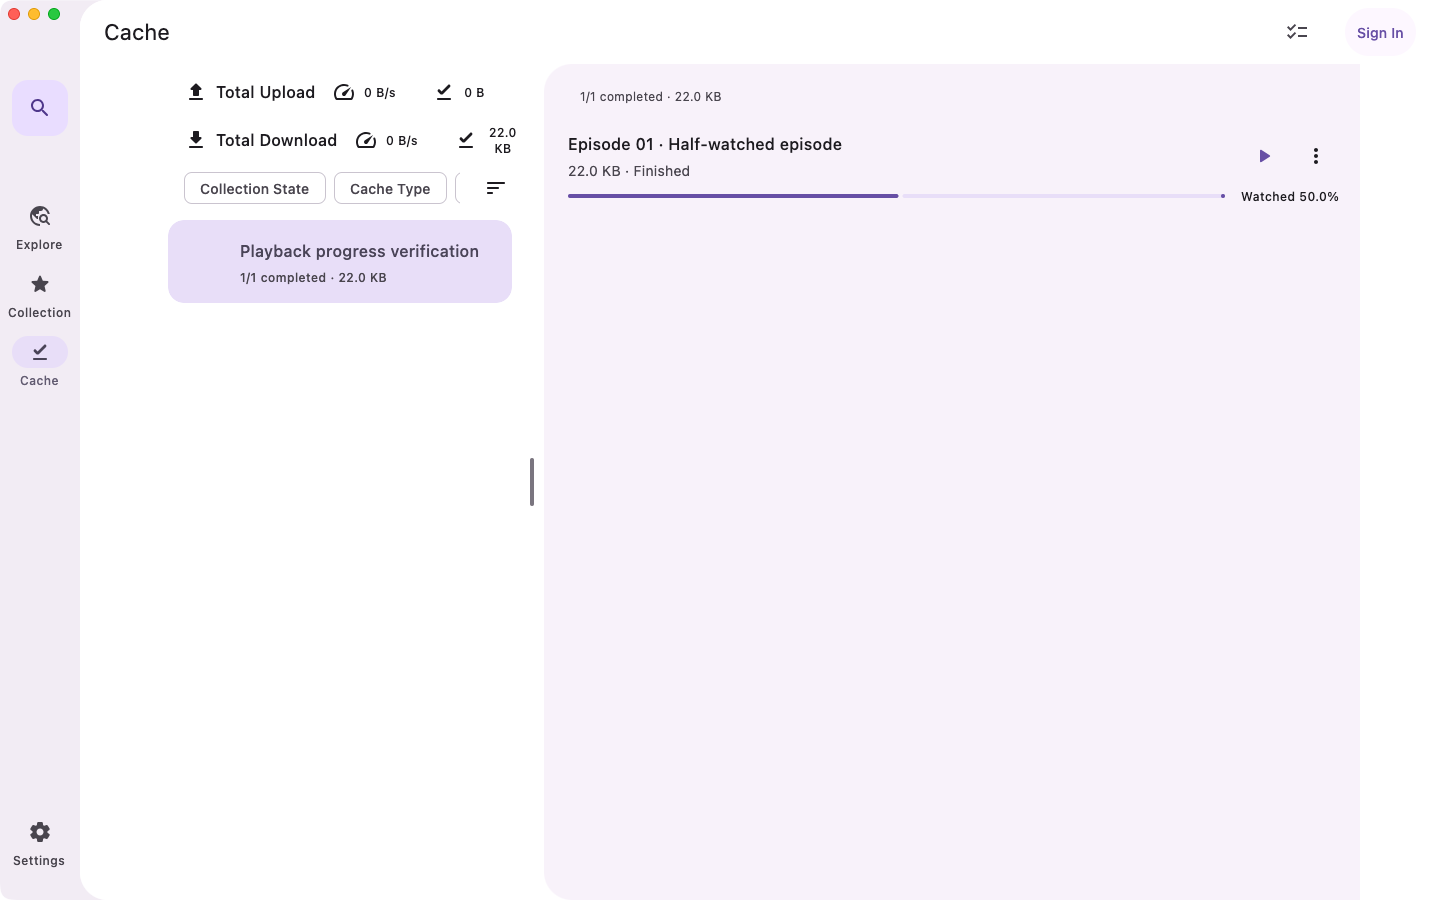
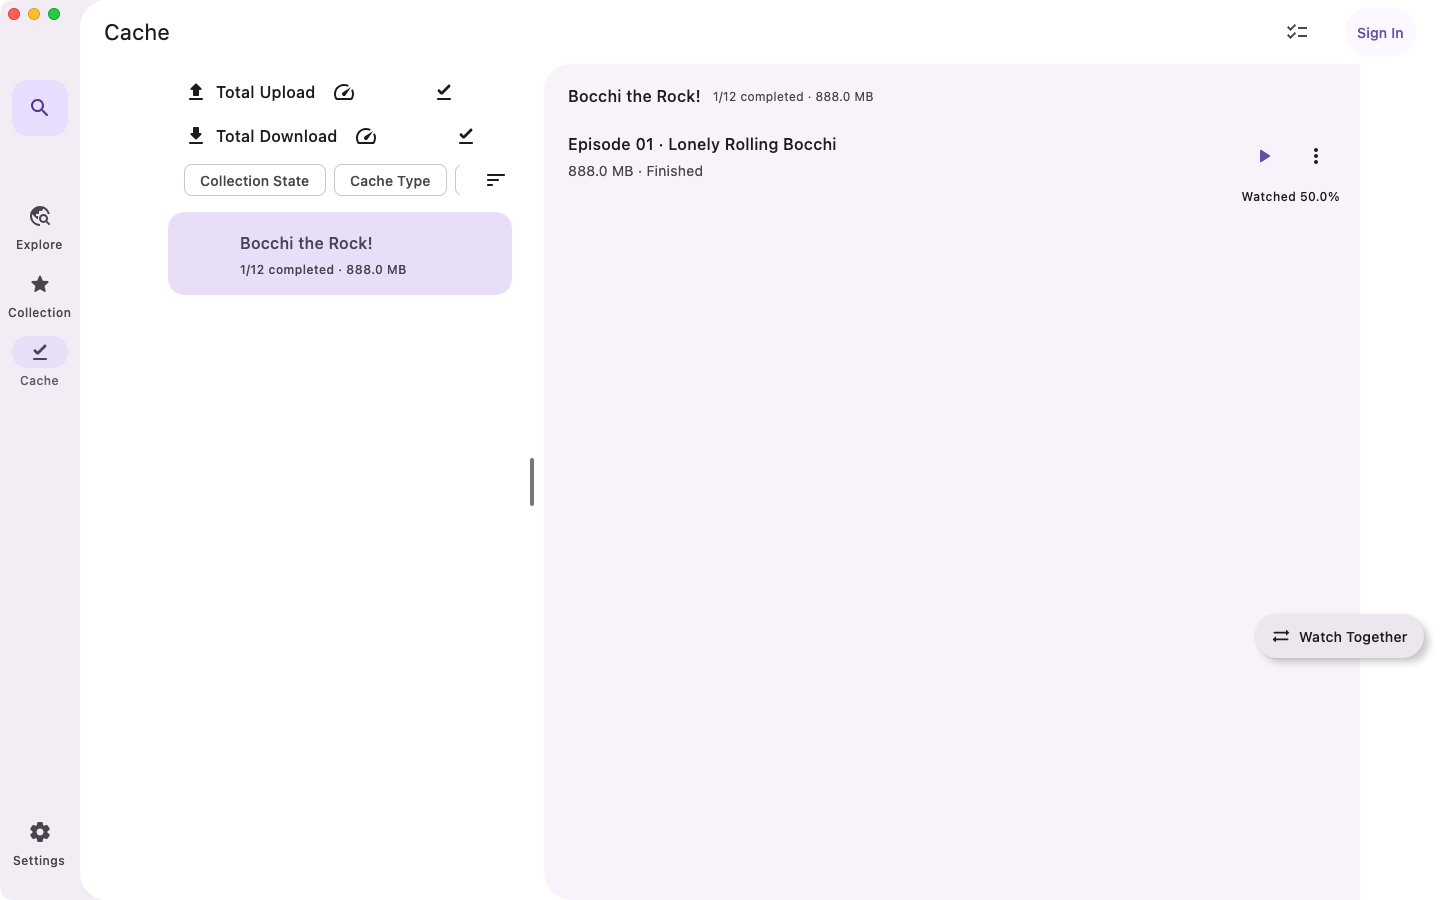
Show watched progress as text

diff --git a/app/shared/ui-cache/src/commonMain/kotlin/ui/cache/components/CacheEpisodeRow.kt b/app/shared/ui-cache/src/commonMain/kotlin/ui/cache/components/CacheEpisodeRow.kt
@@ -41,7 +41,7 @@ import androidx.compose.ui.draw.clip
 import androidx.compose.ui.graphics.Color
 import androidx.compose.ui.graphics.Shape
 import androidx.compose.ui.graphics.StrokeCap
-import androidx.compose.ui.platform.testTag
+import androidx.compose.ui.text.style.TextAlign
 import androidx.compose.ui.text.style.TextOverflow
 import androidx.compose.ui.unit.dp
 import me.him188.ani.app.tools.getOrZero
@@ -205,53 +205,46 @@ fun CacheEpisodeRow(
                 }
             }
 
-            val showPlaybackProgress = episode.isFinished && episode.hasPlaybackProgress
-            AniAnimatedVisibility(!episode.isFinished || showPlaybackProgress) {
-                Row(
-                    Modifier.fillMaxWidth(),
-                    horizontalArrangement = Arrangement.spacedBy(16.dp),
-                    verticalAlignment = Alignment.CenterVertically,
-                ) {
-                    val displayedProgress = if (showPlaybackProgress) {
-                        episode.playbackProgress
-                    } else {
-                        episode.progress
-                    }
-                    val progress by animateFloatAsState(displayedProgress.getOrZero())
-                    LinearProgressIndicator(
-                        progress = { progress },
-                        modifier = Modifier
-                            .weight(1f)
-                            .then(
-                                if (showPlaybackProgress) {
-                                    Modifier.testTag(CacheEpisodeRowTestTags.playbackProgress(episode.cacheId))
-                                } else {
-                                    Modifier
-                                },
-                            ),
-                        strokeCap = StrokeCap.Round,
+            val showPlaybackProgressText = episode.isFinished && episode.hasPlaybackProgress
+            AniAnimatedVisibility(!episode.isFinished || showPlaybackProgressText) {
+                if (showPlaybackProgressText) {
+                    Text(
+                        stringResource(
+                            Lang.cache_episode_watched_progress,
+                            episode.playbackProgressText ?: "",
+                        ),
+                        modifier = Modifier.fillMaxWidth(),
+                        style = MaterialTheme.typography.labelMedium,
+                        textAlign = TextAlign.End,
                     )
+                } else {
                     Row(
-                        horizontalArrangement = Arrangement.spacedBy(8.dp),
+                        Modifier.fillMaxWidth(),
+                        horizontalArrangement = Arrangement.spacedBy(16.dp),
                         verticalAlignment = Alignment.CenterVertically,
                     ) {
-                        val statusText = when {
-                            showPlaybackProgress -> stringResource(
-                                Lang.cache_episode_watched_progress,
-                                episode.playbackProgressText ?: "",
-                            )
-                            episode.isFailed -> stringResource(Lang.cache_episode_download_failed)
-                            episode.isPaused -> stringResource(Lang.cache_episode_status_paused)
-                            else -> episode.speedText
-                        }
-                        statusText?.let {
-                            Text(
-                                it,
-                                style = MaterialTheme.typography.labelMedium,
-                                color = if (episode.isFailed) MaterialTheme.colorScheme.error else Color.Unspecified,
-                            )
-                        }
-                        if (!showPlaybackProgress) {
+                        val progress by animateFloatAsState(episode.progress.getOrZero())
+                        LinearProgressIndicator(
+                            progress = { progress },
+                            modifier = Modifier.weight(1f),
+                            strokeCap = StrokeCap.Round,
+                        )
+                        Row(
+                            horizontalArrangement = Arrangement.spacedBy(8.dp),
+                            verticalAlignment = Alignment.CenterVertically,
+                        ) {
+                            val statusText = when {
+                                episode.isFailed -> stringResource(Lang.cache_episode_download_failed)
+                                episode.isPaused -> stringResource(Lang.cache_episode_status_paused)
+                                else -> episode.speedText
+                            }
+                            statusText?.let {
+                                Text(
+                                    it,
+                                    style = MaterialTheme.typography.labelMedium,
+                                    color = if (episode.isFailed) MaterialTheme.colorScheme.error else Color.Unspecified,
+                                )
+                            }
                             episode.progressText?.let { Text(it, style = MaterialTheme.typography.labelMedium) }
                         }
                     }
@@ -259,12 +252,6 @@ fun CacheEpisodeRow(
             }
         }
     }
-}
-
-object CacheEpisodeRowTestTags {
-    private const val PLAYBACK_PROGRESS_PREFIX = "cache_episode_playback_progress_"
-
-    fun playbackProgress(cacheId: String): String = PLAYBACK_PROGRESS_PREFIX + cacheId
 }
 
 /**

diff --git a/app/shared/ui-cache/src/desktopTest/kotlin/ui/cache/components/CacheEpisodeRowUiTest.kt b/app/shared/ui-cache/src/desktopTest/kotlin/ui/cache/components/CacheEpisodeRowUiTest.kt
@@ -9,9 +9,9 @@
 
 package me.him188.ani.app.ui.cache.components
 
-import androidx.compose.ui.semantics.ProgressBarRangeInfo
-import androidx.compose.ui.test.assertRangeInfoEquals
-import androidx.compose.ui.test.onNodeWithTag
+import androidx.compose.ui.semantics.SemanticsProperties
+import androidx.compose.ui.test.SemanticsMatcher
+import androidx.compose.ui.test.assertCountEquals
 import androidx.compose.ui.test.onNodeWithText
 import kotlinx.coroutines.runBlocking
 import me.him188.ani.app.tools.toProgress
@@ -27,7 +27,7 @@ import kotlin.test.Test
 @OptIn(TestOnly::class)
 class CacheEpisodeRowUiTest {
     @Test
-    fun `completed cache shows playback progress`() = runAniComposeUiTest {
+    fun `completed cache shows playback progress text without progress semantics`() = runAniComposeUiTest {
         val episode = createTestCacheEpisode(
             sort = 1,
             initialState = CacheEpisodePaused.COMPLETED,
@@ -58,7 +58,7 @@ class CacheEpisodeRowUiTest {
         }
 
         onNodeWithText(watchedText).assertExists()
-        onNodeWithTag(CacheEpisodeRowTestTags.playbackProgress(episode.cacheId))
-            .assertRangeInfoEquals(ProgressBarRangeInfo(0.5f, 0f..1f))
+        onAllNodes(SemanticsMatcher.keyIsDefined(SemanticsProperties.ProgressBarRangeInfo))
+            .assertCountEquals(0)
     }
 }
